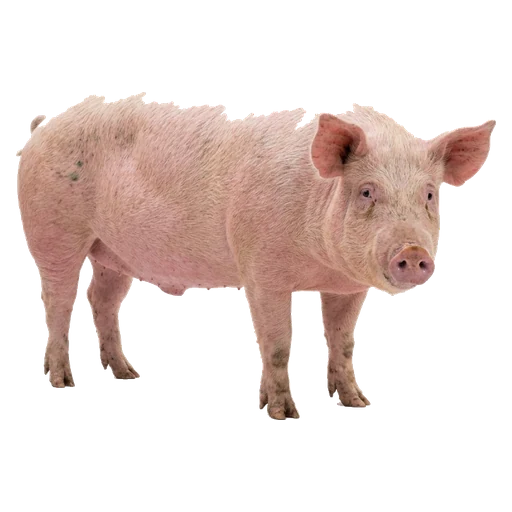
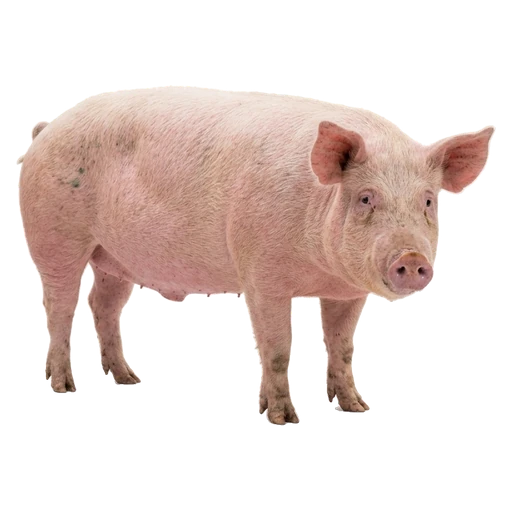
Recut the pig with a soft edge so its back stays intact
The earlier cutout raised the colour tolerance to remove the light grey
background and cut into the pig's pale back. The new one leaves every
pixel inside the pig untouched and only fades the outline by how grey each
pixel is, with the grey spill removed, so the edge is smooth with no rim.

Claude-Session: https://claude.ai/code/session_01HdXUYyMrzi1MSo3hLJd9no

diff --git a/sw.js b/sw.js
@@ -9,7 +9,7 @@
 // Downloaded voices live in a separate cache managed by js/piper.js
 // ('aac-voices-…'); it is left alone here so updates never re-download them.
 
-const CACHE_NAME = 'aac-app-v37';
+const CACHE_NAME = 'aac-app-v38';
 const VOICE_CACHE_PREFIX = 'aac-voices-';
 
 const PRECACHE = [
